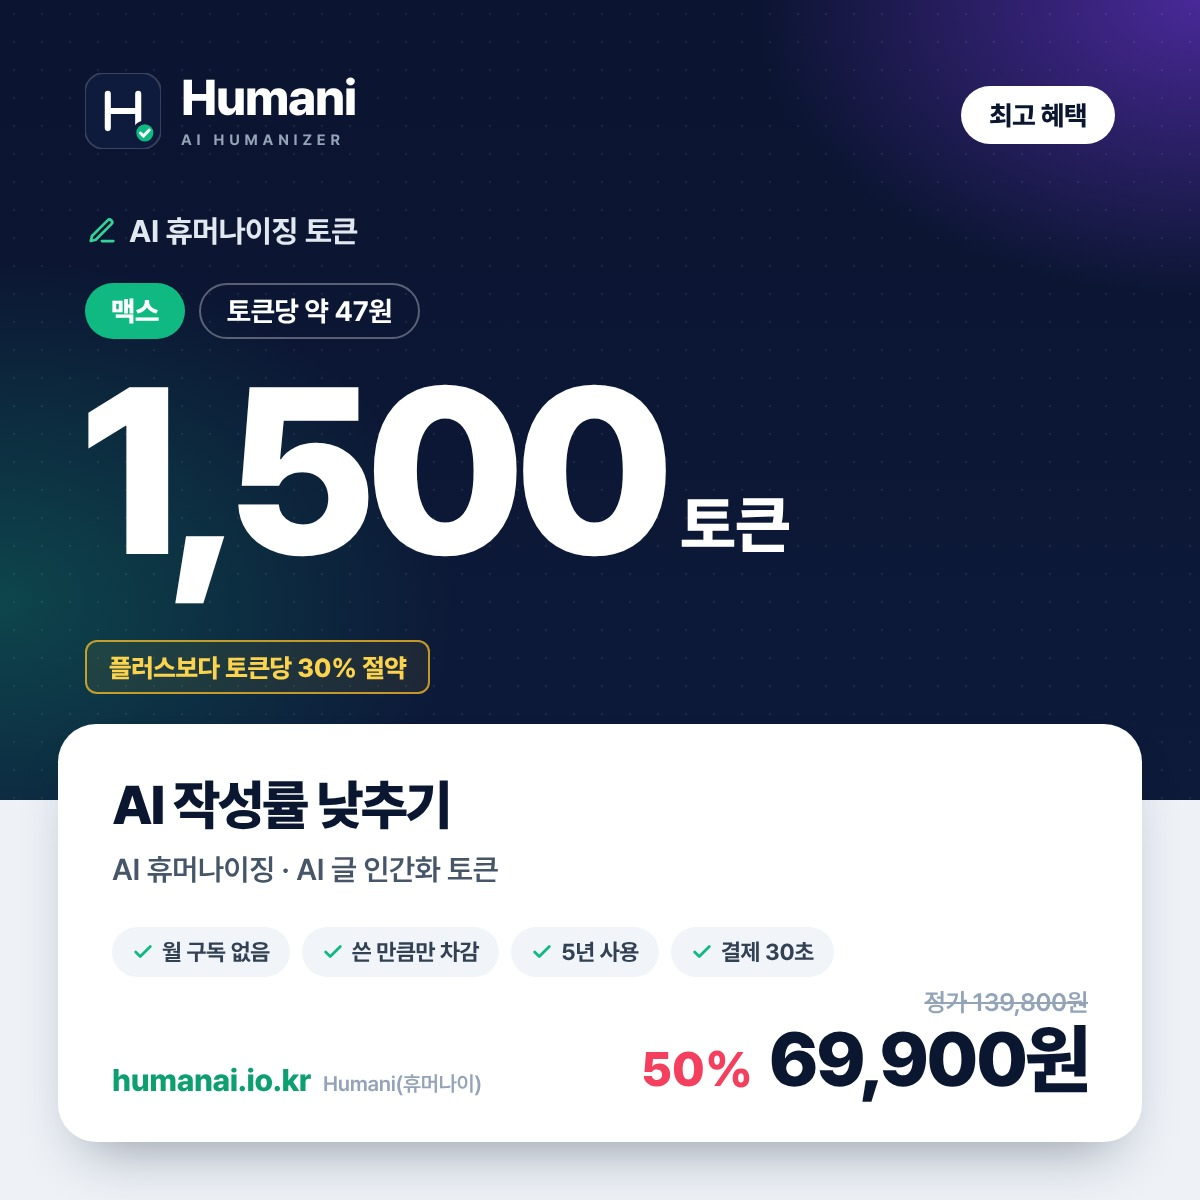
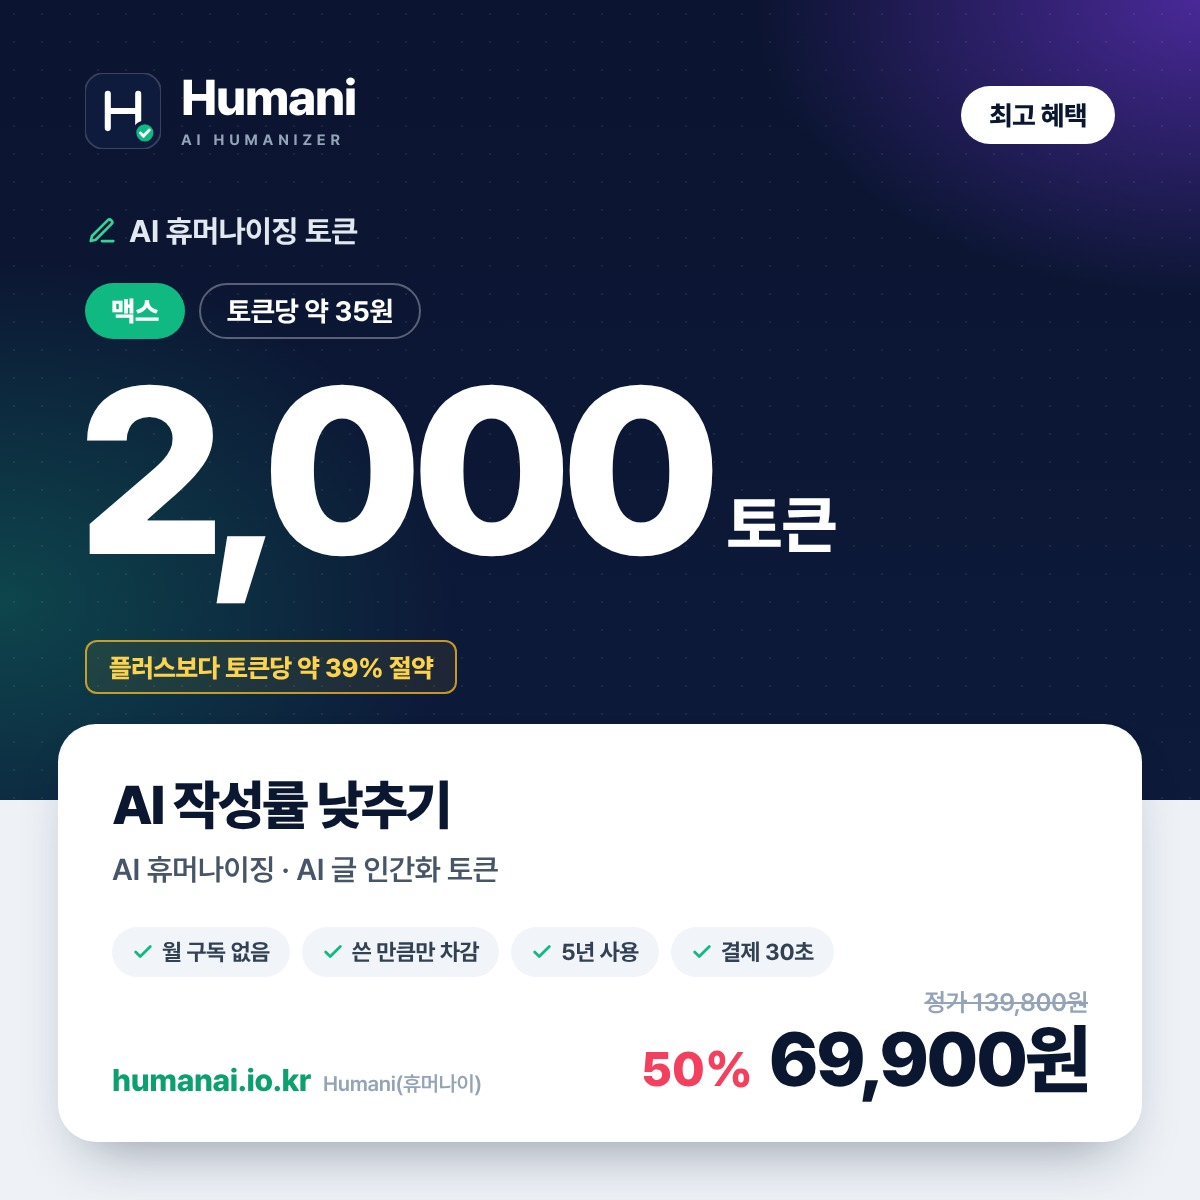
사이트 업데이트

Changed region(s): [[0.0617, 0.3083, 0.7092, 0.5242], [0.2467, 0.5242, 0.4008, 0.5858], [0.2775, 0.2467, 0.3392, 0.2775]]

diff --git a/_src/shop/humani/render_humani.py b/_src/shop/humani/render_humani.py
@@ -9,9 +9,9 @@ OUT = os.path.join(HERE, "out"); os.makedirs(OUT, exist_ok=True)
 FONT = "file://" + os.path.join(os.path.dirname(HERE), "pretendard.css")
 P = [
     {"id": "lt", "name": "라이트", "tok": "100", "per": "토큰당 99원", "price": "9,900원", "list": "19,800원", "badge": ("정가의 50%", "o"), "note": "짧은 과제 · 자기소개서 한두 문항"},
-    {"id": "pl", "name": "플러스", "tok": "300", "per": "토큰당 약 57원", "price": "19,900원", "list": "39,800원", "badge": ("정가의 50%", "o"), "note": "레포트 여러 편 · 자소서 한 세트"},
-    {"id": "pr", "name": "프로", "tok": "750", "per": "토큰당 약 40원", "price": "39,900원", "list": "79,800원", "badge": ("BEST 추천", "y"), "save": "플러스보다 토큰당 20% 절약"},
-    {"id": "mx", "name": "맥스", "tok": "1,500", "per": "토큰당 약 35원", "price": "69,900원", "list": "139,800원", "badge": ("최고 혜택", "w"), "save": "플러스보다 토큰당 30% 절약"},
+    {"id": "pl", "name": "플러스", "tok": "350", "per": "토큰당 약 57원", "price": "19,900원", "list": "39,800원", "badge": ("정가의 50%", "o"), "note": "레포트 여러 편 · 자소서 한 세트"},
+    {"id": "pr", "name": "프로", "tok": "1,000", "per": "토큰당 약 40원", "price": "39,900원", "list": "79,800원", "badge": ("BEST 추천", "y"), "save": "플러스보다 토큰당 약 30% 절약"},
+    {"id": "mx", "name": "맥스", "tok": "2,000", "per": "토큰당 약 35원", "price": "69,900원", "list": "139,800원", "badge": ("최고 혜택", "w"), "save": "플러스보다 토큰당 약 39% 절약"},
 ]
 CHECK = '<svg viewBox="0 0 24 24" width="22" height="22"><path d="M20 6 9 17l-5-5" fill="none" stroke="#10b981" stroke-width="3" stroke-linecap="round" stroke-linejoin="round"/></svg>'
 PEN = '<svg viewBox="0 0 24 24" width="30" height="30"><path d="M12 20h9M16.5 3.5a2.1 2.1 0 0 1 3 3L7 19l-4 1 1-4Z" fill="none" stroke="#34d399" stroke-width="2.2" stroke-linecap="round" stroke-linejoin="round"/></svg>'

diff --git a/_src/shop/render.py b/_src/shop/render.py
@@ -88,7 +88,7 @@ body{width:1200px;height:1200px;background:#fff;position:relative;overflow:hidde
  <div class="price"><del>정가 %s</del><div class="row"><span class="off">50%%</span><b>%s</b></div></div>
 </div>
 <div class="ttl">AI 작성률 낮추기 · AI 휴머나이징<br>(AI 글 인간화) 토큰</div>
-<div class="sub">월 구독 없이 한 번 충전 · 쓴 만큼만 빠짐 · 5년 사용<br>검사 1,000자 4토큰 · 휴머나이징 1,000자 8토큰</div>
+<div class="sub">월 구독 없이 한 번 충전 · 쓴 만큼만 빠짐 · 5년 사용<br>검사 무료 · 휴머나이징 1,000자 4토큰</div>
 <div class="dom">humanizer.co.kr</div>
 </body></html>""" % (BASE_CSS, 168 if small else 196, lg, GLYPH, badge, p["name"], p["per"], p["tok"], save, p["list"], p["price"])
 
@@ -179,7 +179,7 @@ body{width:1200px;height:1200px;background:#fff;position:relative;overflow:hidde
  <div class="price">%s</div>
 </div>
 <div class="ttl">AI 작성률 낮추기 · AI 휴머나이징<br>(AI 글 인간화) 서비스 토큰</div>
-<div class="sub">월 구독 없이 한 번 충전 · 쓴 만큼만 빠짐 · 5년 사용<br>검사 1,000자 4토큰 · 휴머나이징 1,000자 8토큰</div>
+<div class="sub">월 구독 없이 한 번 충전 · 쓴 만큼만 빠짐 · 5년 사용<br>검사 무료 · 휴머나이징 1,000자 4토큰</div>
 <div class="dom">humanizer.co.kr</div>
 </body></html>""" % (BASE_CSS, LOCKUP_CSS, 168 if small else 196, LOCKUP, badge, p["name"], p["per"], p["tok"], save, p["price"])
 
